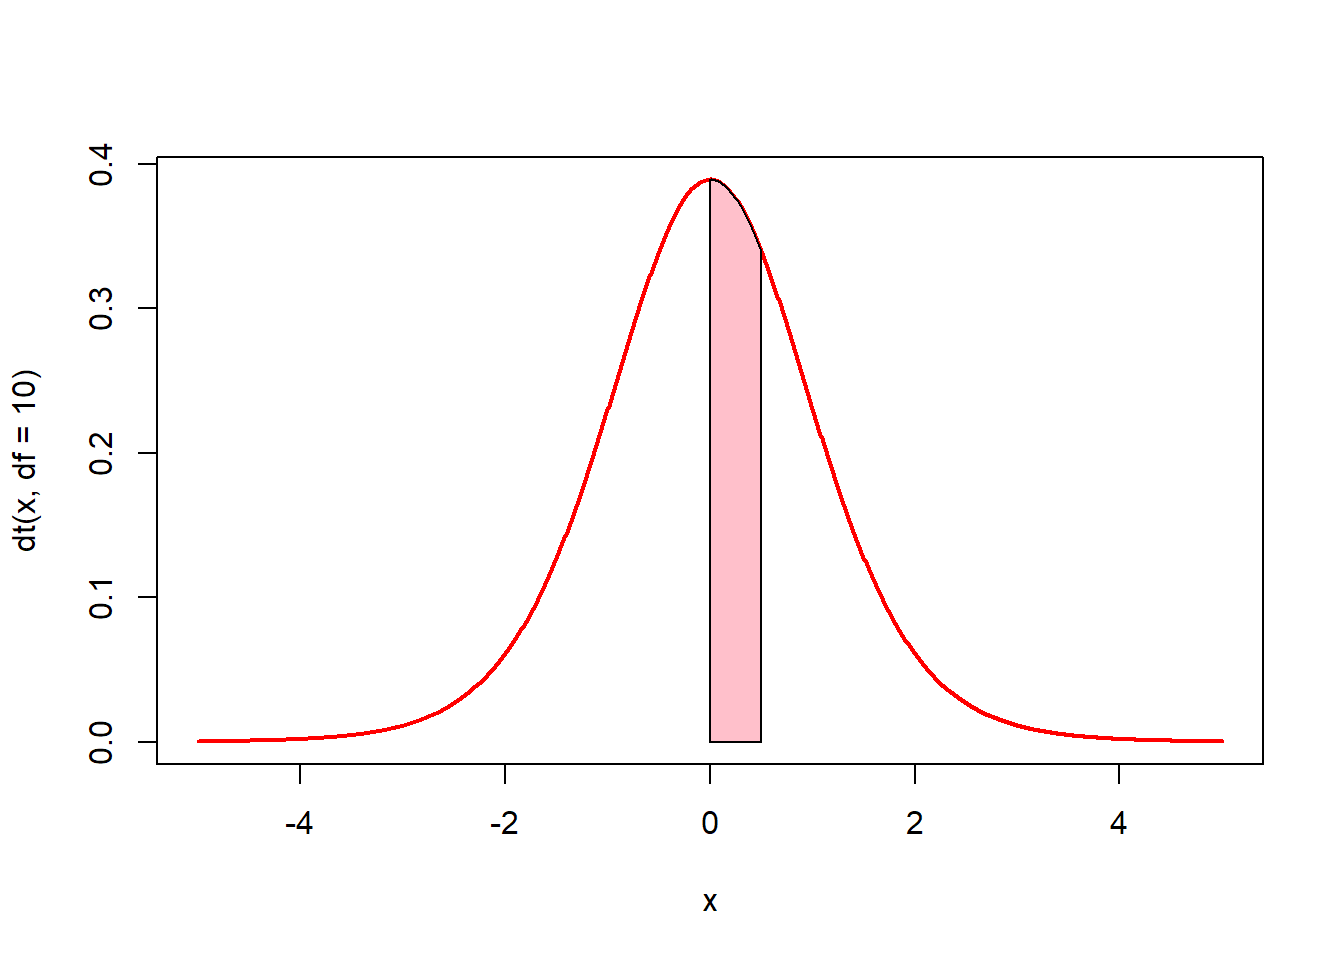
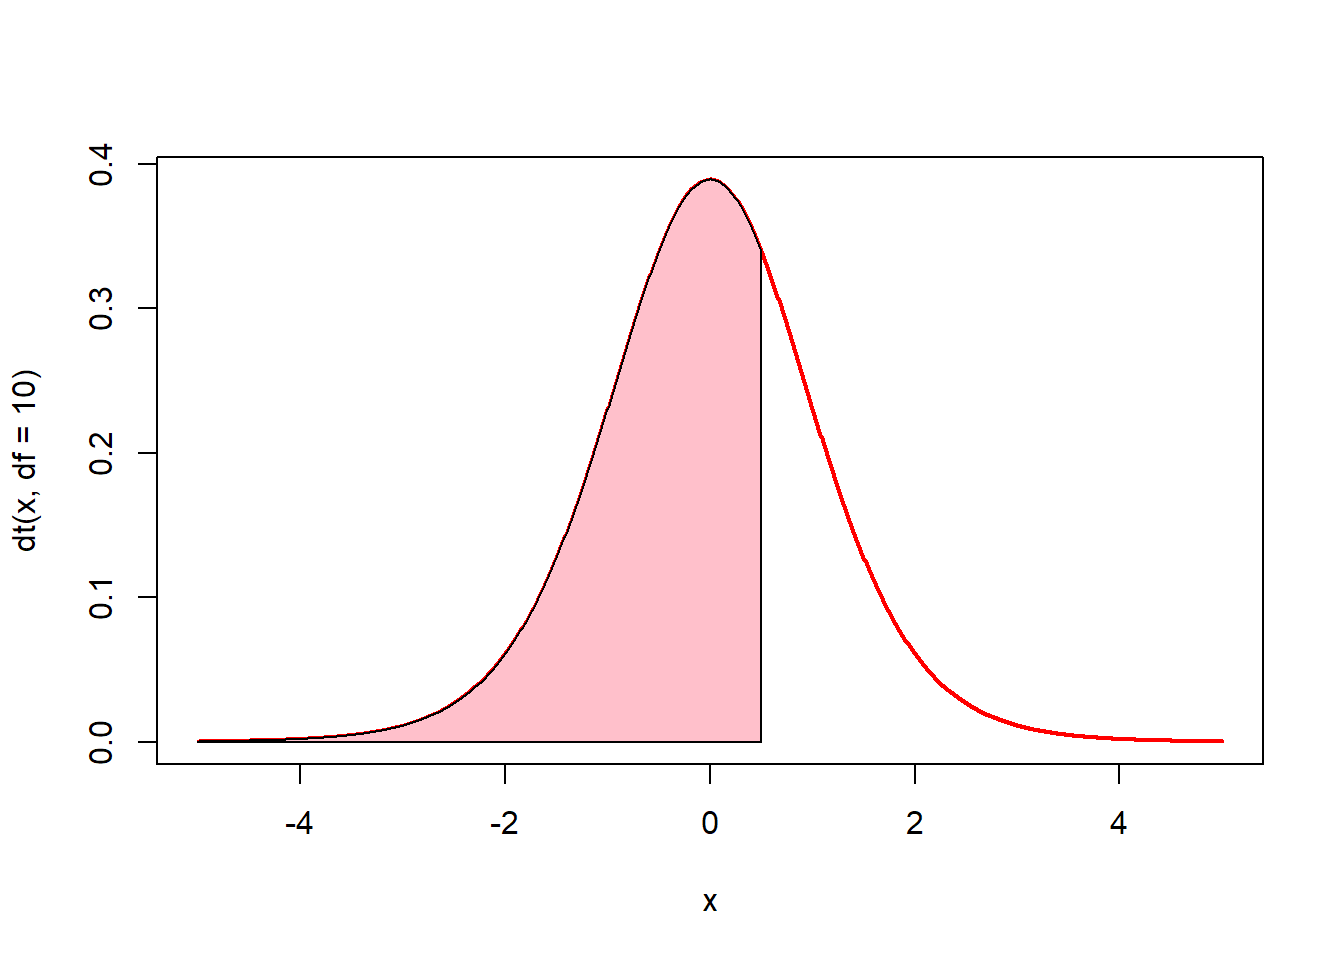
update

Changed region(s): [[0.1562, 0.1875, 0.5312, 0.7812]]

diff --git a/docs/r-통계-함수.html b/docs/r-통계-함수.html
@@ -891,13 +891,13 @@ code span.wa { color: #60a0b0; font-weight: bold; font-style: italic; } /* Warni
 <span id="cb307-5"><a href="r-통계-함수.html#cb307-5"></a><span class="kw">lines</span>(x, <span class="kw">dt</span>(x, <span class="dt">df =</span> <span class="dv">15</span>, <span class="dt">ncp =</span> <span class="dv">2</span>), <span class="dt">type =</span> <span class="st">&quot;l&quot;</span>, <span class="dt">col =</span> <span class="st">&quot;blue&quot;</span>)</span>
 <span id="cb307-6"><a href="r-통계-함수.html#cb307-6"></a><span class="kw">lines</span>(x, <span class="kw">dt</span>(x, <span class="dt">df =</span> <span class="dv">15</span>, <span class="dt">ncp =</span> <span class="dv">3</span>), <span class="dt">type =</span> <span class="st">&quot;l&quot;</span>, <span class="dt">col =</span> <span class="st">&quot;purple&quot;</span>)</span></code></pre></div>
 <p><img src="rbasic_files/figure-html/unnamed-chunk-303-1.png" width="672" style="display: block; margin: auto;" /></p>
-<div class="sourceCode" id="cb308"><pre class="sourceCode r"><code class="sourceCode r"><span id="cb308-1"><a href="r-통계-함수.html#cb308-1"></a><span class="co"># 0에서 0.5까지의 면적(핑크색)은? pt(0.5, df = 10)</span></span>
+<div class="sourceCode" id="cb308"><pre class="sourceCode r"><code class="sourceCode r"><span id="cb308-1"><a href="r-통계-함수.html#cb308-1"></a><span class="co"># 0.5이하의 면적(핑크색)은? pt(0.5, df = 10)</span></span>
 <span id="cb308-2"><a href="r-통계-함수.html#cb308-2"></a>x &lt;-<span class="st"> </span><span class="kw">seq</span>(<span class="op">-</span><span class="dv">5</span>, <span class="dv">5</span>, <span class="dt">by =</span> <span class="fl">0.01</span>)</span>
 <span id="cb308-3"><a href="r-통계-함수.html#cb308-3"></a><span class="kw">plot</span>(x, <span class="kw">dt</span>(x, <span class="dt">df =</span> <span class="dv">10</span>), <span class="dt">type =</span> <span class="st">&quot;l&quot;</span>, <span class="dt">lwd =</span> <span class="dv">2</span>, <span class="dt">col =</span> <span class="st">&quot;red&quot;</span>)</span>
 <span id="cb308-4"><a href="r-통계-함수.html#cb308-4"></a></span>
-<span id="cb308-5"><a href="r-통계-함수.html#cb308-5"></a>u &lt;-<span class="st"> </span><span class="kw">seq</span>(<span class="dv">0</span>, <span class="fl">0.5</span>, <span class="dt">by =</span> <span class="fl">0.01</span>)</span>
+<span id="cb308-5"><a href="r-통계-함수.html#cb308-5"></a>u &lt;-<span class="st"> </span><span class="kw">seq</span>(<span class="op">-</span><span class="dv">5</span>, <span class="fl">0.5</span>, <span class="dt">by =</span> <span class="fl">0.01</span>)</span>
 <span id="cb308-6"><a href="r-통계-함수.html#cb308-6"></a>v &lt;-<span class="st"> </span><span class="kw">dt</span>(u, <span class="dt">df =</span> <span class="dv">10</span>)</span>
-<span id="cb308-7"><a href="r-통계-함수.html#cb308-7"></a><span class="kw">polygon</span>(<span class="kw">c</span>(<span class="dv">0</span>, u, <span class="fl">0.5</span>), <span class="kw">c</span>(<span class="dv">0</span>, v, <span class="dv">0</span>), <span class="dt">col =</span> <span class="st">&quot;pink&quot;</span>)</span></code></pre></div>
+<span id="cb308-7"><a href="r-통계-함수.html#cb308-7"></a><span class="kw">polygon</span>(<span class="kw">c</span>(<span class="op">-</span><span class="dv">5</span>, u, <span class="fl">0.5</span>), <span class="kw">c</span>(<span class="dv">0</span>, v, <span class="dv">0</span>), <span class="dt">col =</span> <span class="st">&quot;pink&quot;</span>)</span></code></pre></div>
 <p><img src="rbasic_files/figure-html/unnamed-chunk-304-1.png" width="672" style="display: block; margin: auto;" /></p>
 <p><code>pt(q, df, ncp, lower.tail = TRUE, log.p = FALSE)</code> 함수는 t분포의 누적분포함수입니다. 자유도 df의 t분포에서 인자 q의 누적분포함수값 즉 확률을 구해 반환합니다.</p>
 <div class="sourceCode" id="cb309"><pre class="sourceCode r"><code class="sourceCode r"><span id="cb309-1"><a href="r-통계-함수.html#cb309-1"></a>x &lt;-<span class="st"> </span><span class="kw">seq</span>(<span class="op">-</span><span class="dv">5</span>, <span class="dv">5</span>, <span class="dt">by =</span> <span class="fl">0.01</span>)</span>
